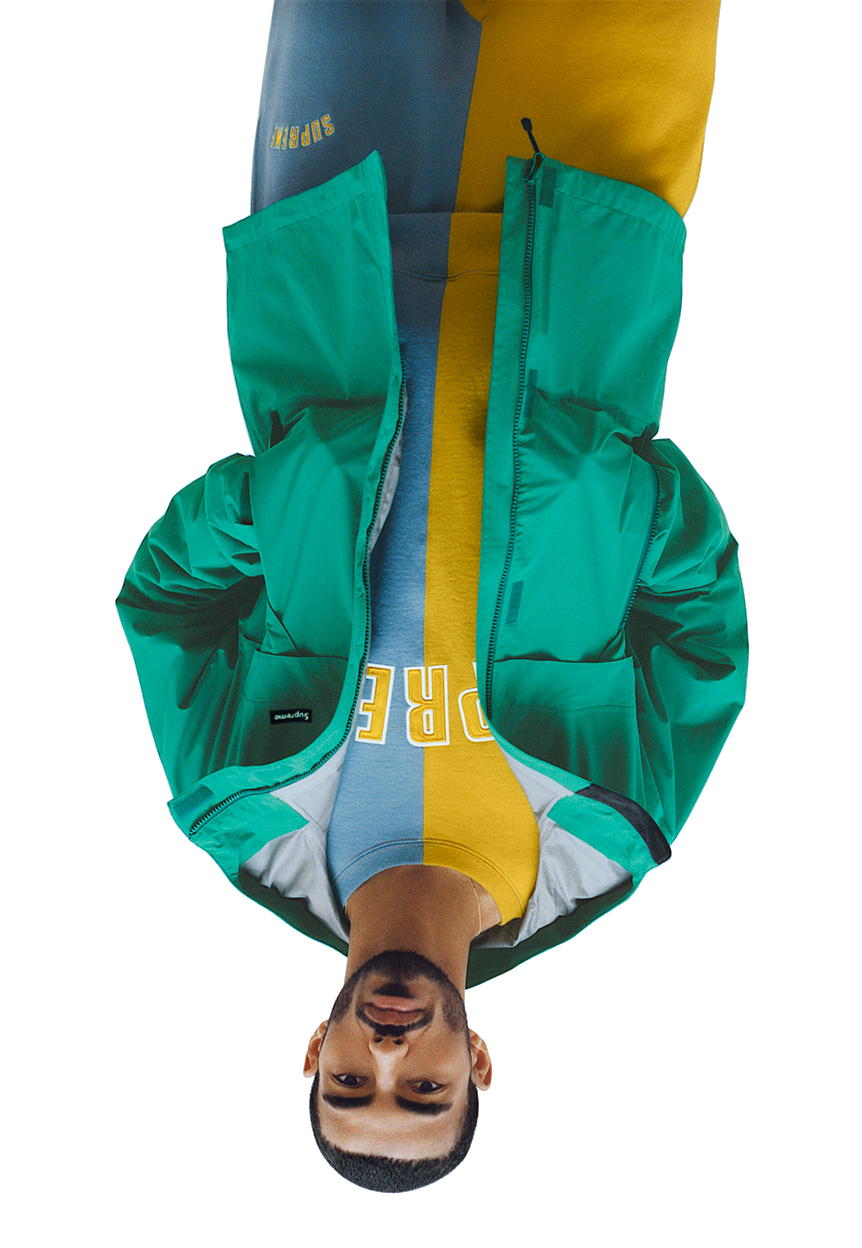
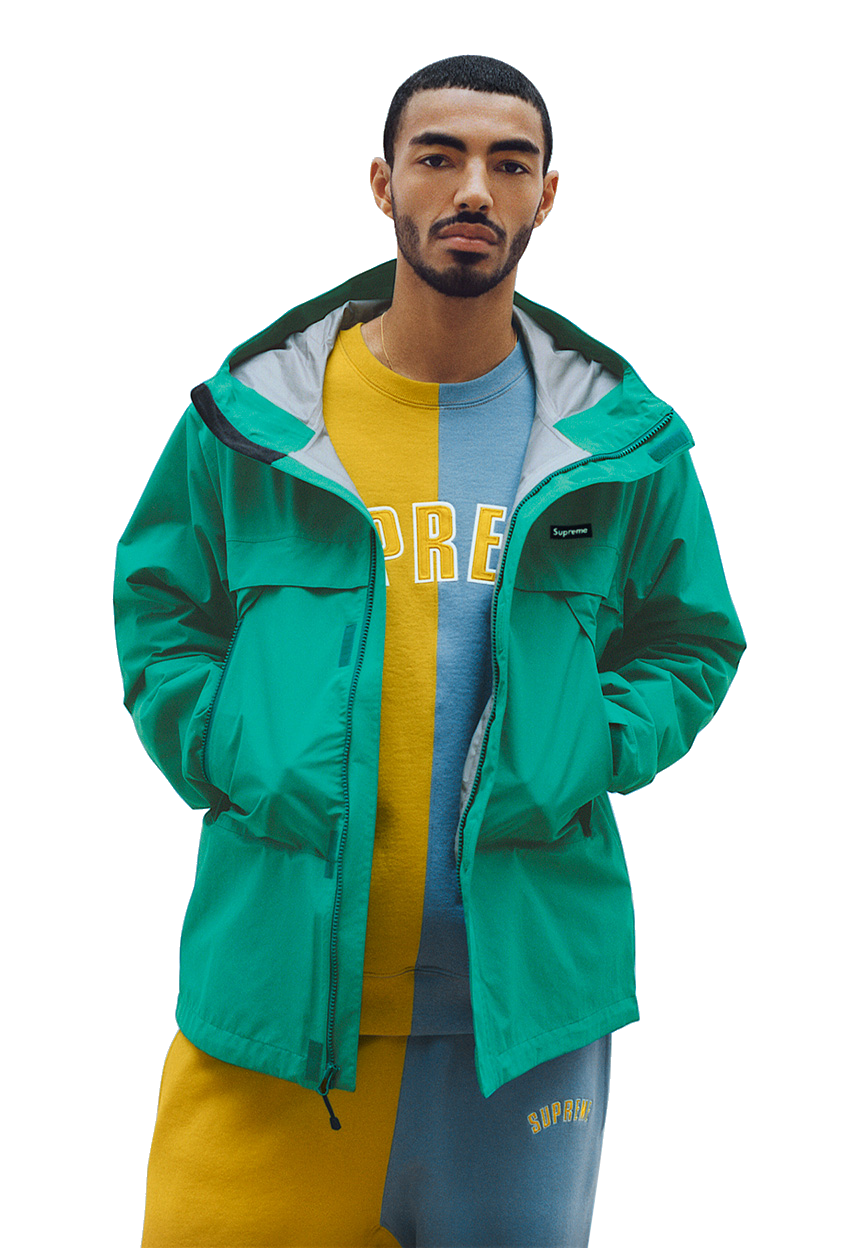
Added switching add on front-page

diff --git a/scripts/frontSwitch.js b/scripts/frontSwitch.js
@@ -1,0 +1,36 @@
+img = document.getElementById('frontImg');
+text = document.getElementById('frontInfo');
+oTxt = text.innerHTML;
+oSrc = img.src;
+img.style.transition = "all 0.6s";
+text.style.transition = "all 0.6s";
+btn = document.getElementById('frontBtn');
+btn.style.transition = "all 0.6s";
+
+nTxt = "Stone Island LOOM WOVEN DOWN";
+nSrc = "/HypeIT/images/stoneisland.png";
+
+interval = setInterval(animation, 13000);
+
+function animation() {
+  img.style.opacity = 0;
+  text.style.opacity = 0;
+  btn.style.opacity = 0;
+  setTimeout(changeContent, 1000);
+
+
+}
+
+function changeContent() {
+  if(img.src == oSrc) {
+    img.src = nSrc;
+    text.innerHTML = nTxt;
+  }
+  else{
+    img.src = oSrc;
+    text.innerHTML = oTxt;
+  }
+  img.style.opacity = 1;
+  text.style.opacity = 1;
+  btn.style.opacity = 1;
+}

diff --git a/index.php b/index.php
@@ -17,10 +17,10 @@
 
     <div class="Showcase New">
       <!-- was showcase.png -->
-      <img src="/HypeIT/images/gotem.jpg" alt="Supreme Dog Taped Seam Jakke" class="New" onclick="window.location.href='javascript:void(0)'">
+      <img src="/HypeIT/images/showcase.png" alt="Supreme Dog Taped Seam Jakke" class="New" onclick="window.location.href='javascript:void(0)'" id="frontImg">
       <div class="Info">
-        <h1 class="New"><a href="javascript:void(0)">Supreme dog taped seam jakke</a></h1>
-        <a href="javascript:void(0)" class="shopBtn" tabindex="2" onclick="addToBasket(this);cartCounter(this);">Legg i handlekurv</a>
+        <h1 class="New" id="frontInfo"><a href="javascript:void(0)">Supreme dog taped seam jakke</a></h1>
+        <a href="javascript:void(0)" class="shopBtn" tabindex="2" onclick="addToBasket(this);cartCounter(this);" id="frontBtn">Legg i handlekurv</a>
       </div>
     </div>
 

diff --git a/elements/head.php b/elements/head.php
@@ -22,6 +22,7 @@
 <script async defer src="/HypeIT/scripts/cartCounter.js"></script>
 <script async defer src="/HypeIT/scripts/pictureSwap.js"></script>
 <script async defer src="/HypeIT/scripts/mobileNav.js"></script>
+<script defer src="/HypeIT/scripts/frontSwitch.js"></script>
 
 <!-- Live chat
 <script type="text/javascript">
